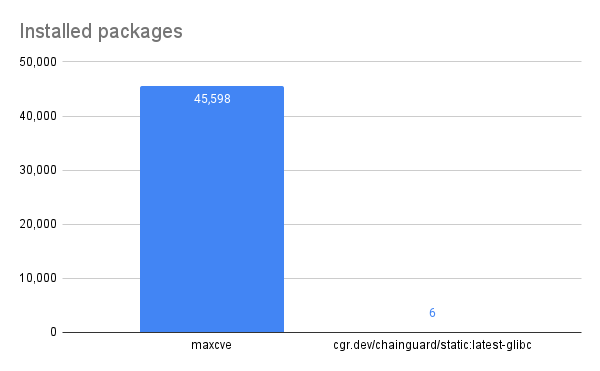
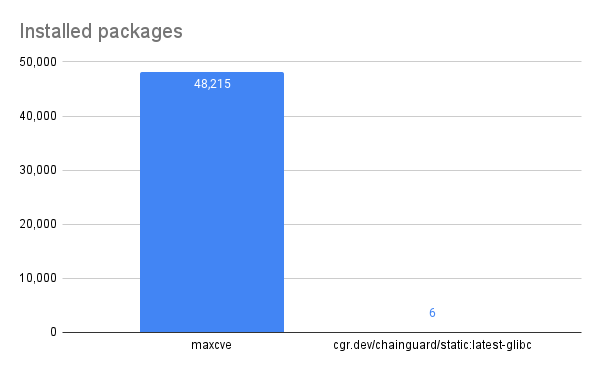
update numbers

Changed region(s): [[0.21, 0.1779, 0.48, 0.2965]]

diff --git a/README.md b/README.md
@@ -1,23 +1,21 @@
 # _MAXIMUM CVEs_
 
-[![Release](https://github.com/imjasonh/maxcve/actions/workflows/release.yaml/badge.svg)](https://github.com/imjasonh/maxcve/actions/workflows/release.yaml)
+[![Release](https://github.com/chainguard-dev/maxcve/actions/workflows/release.yaml/badge.svg)](https://github.com/chainguard-dev/maxcve/actions/workflows/release.yaml)
 
 This repo generates a container image that maximizes the number of CVEs in the image, while minimizing the size of the image.
 
 The result is a 183 KB image that it has _more than 35,000 known vulnerabilities_. That's roughly one CVE for every 5 bytes of image data!
 
 ```
-grype ghcr.io/imjasonh/maxcve/maxcve 1> /dev/null
-...
- ✔ Vulnerability DB                [updated]  
- ✔ Cataloged contents
-   └── ✔ Packages                        [45,598 packages]  
- ✔ Scanned for vulnerabilities     [249238 vulnerability matches]  
-   ├── by severity: 5080 critical, 47441 high, 34209 medium, 1386 low, 0 negligible (161122 unknown)
-   └── by status:   241041 fixed, 8197 not-fixed, 0 ignored 
+$ grype ghcr.io/chainguard-dev/maxcve/maxcve 1> /dev/null
+   ├── ✔ Packages                        [48,215 packages]
+   └── ✔ Executables                     [0 executables]
+ ✔ Scanned for vulnerabilities     [290565 vulnerability matches]
+   ├── by severity: 5968 critical, 50545 high, 38097 medium, 1390 low, 0 negligible (194565 unknown)
+   └── by status:   282221 fixed, 8344 not-fixed, 0 ignored
 ```
 
-(As of March 14, 2024)
+(As of March 28, 2024)
 
 Or, if you prefer to consume data visually:
 
